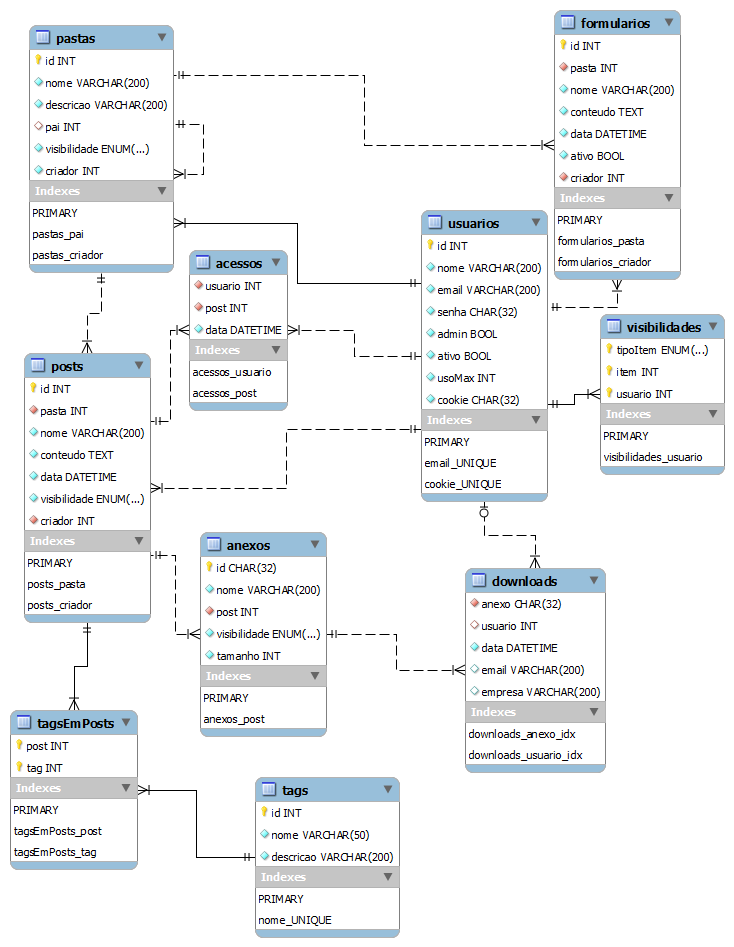
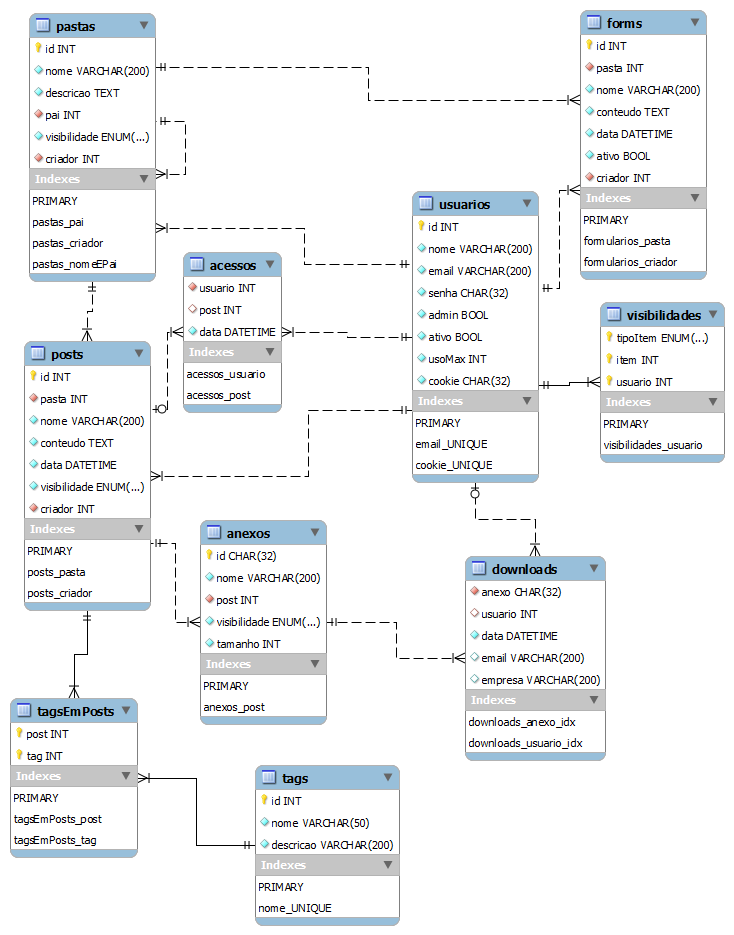
Permite alterar a senha e nome do usuário

diff --git a/js/editarPasta.js b/js/editarPasta.js
@@ -13,3 +13,8 @@ window.addEventListener("load", function () {
 	get("seleto").onchange = atualizarLista
 	atualizarLista()
 })
+
+// Volta para a pasta
+setBotao("voltar", function () {
+	window.location = "/pasta"+caminho
+})

diff --git a/layout.js b/layout.js
@@ -16,3 +16,7 @@ setBotao("layout-logout", function () {
 setBotao("layout-buscar", function () {
 	window.location.href = "/busca"
 })
+
+setBotao("layout-editarUsuario", function () {
+	window.location = "/editarUsuario"
+})

diff --git a/css/index.css b/css/index.css
@@ -1,5 +1,4 @@
 /* Página inicial */
-
 .conteudoEsquerdo {
 	width:50%;
 	float:left;
@@ -12,6 +11,6 @@
 	padding:5px;
 }
 
-.menu {
+.menuPrincipal {
 	display:none;
 }

diff --git a/layouts/editarUsuario.php b/layouts/editarUsuario.php
@@ -1,0 +1,37 @@
+<h2>Editar usuário</h2>
+<?php
+if (!$_usuario) {
+	imprimir('Erro: usuário não encontrado', 'p strong');
+	return;
+}
+$nome = assegurarHTML($_usuario['nome']);
+$email = assegurarHTML($_usuario['email']);
+?>
+
+<script>
+setBotao("enviar", function () {
+	get("submit").click()
+})
+</script>
+
+<form method="post" action="/editarUsuario.php">
+<div class="rotuloEsquerdo">
+	Senha antiga:<br>
+	<br>
+	Nome:<br>
+	Email:<br>
+	Nova senha:<br>
+	Repetir nova senha:
+</div>
+<div class="opcoesDireita">
+	<input name="senha" id="senha" type="password" required autofocus><br>
+	<br>
+	<input name="nome" id="nome" type="text" value="<?=$nome?>" size="30"><br>
+	<input name="email" id="email" type="email" value="<?=$email?>" size="30"><br>
+	<input name="novaSenha" id="novaSenha" type="password"><br>
+	<input name="novaSenha2" id="novaSenha2" type="password">
+</div>
+<div class="clear"></div>
+<input type="submit" style="display:none" id="submit">
+<span class="botao" id="enviar"><img src="/imgs/enviar.png"> Alterar</span>
+</form>

diff --git a/layout.php b/layout.php
@@ -10,12 +10,18 @@
 <meta charset="utf-8">
 <title>Central de conhecimento - FEJESP</title>
 <link rel="stylesheet" href="/layout.css">
-<link rel="stylesheet" href="/css/<?=$_GET['p'];?>.css">
+<?php
+if (file_exists("css/$_GET[p].css"))
+	echo "<link rel='stylesheet' href='/css/$_GET[p].css'>";
+?>
 <link rel="shortcut icon" href="/imgs/logoCC.png">
 <script src="/ajax.js"></script>
 <script src="/utils.js"></script>
 <script src="/layout.js"></script>
-<script src="/js/<?=$_GET['p'];?>.js"></script>
+<?php
+if (file_exists("js/$_GET[p].js"))
+	echo "<script src='/js/$_GET[p].js'></script>";
+?>
 </head>
 
 <body>
@@ -31,6 +37,7 @@
 	<?php
 	if ($_usuario) {
 		echo 'Olá ' . $_usuario['nome'] . ', <span class="botao" id="layout-logout"><img src="/imgs/logout.png"> Logout</span>';
+		echo '<span class="botao" id="layout-editarUsuario"><img src="/imgs/editarUsuario.png"> Alterar conta</span>';
 	} else {
 		echo 'Olá anônimo, <span class="botao" id="layout-login"><img src="/imgs/login.png"> Login</span>';
 	}

diff --git a/editarUsuario.php b/editarUsuario.php
@@ -1,0 +1,35 @@
+<?php
+// Carrega as configurações e conecta ao banco de dados
+require_once 'config.php';
+require_once 'utils.php';
+require_once 'Query.php';
+conectar();
+validarLogin();
+
+if (!$_usuario)
+	die('Erro: usuário não encontrado');
+
+// Recebe os dados
+$nome = @$_POST['nome'];
+$email = @$_POST['email'];
+$novaSenha = @$_POST['novaSenha'];
+$novaSenha2 = @$_POST['novaSenha2'];
+$senha = @$_POST['senha'];
+
+// Valida os dados
+if (md5($senha) != $_usuario['senha'])
+	die('Erro: senha incorreta');
+if ($novaSenha && $novaSenha != $novaSenha2)
+	die('Erro: a mesma senha deve ser digitada duas vezes');
+
+// Salva os novos dados
+$dados = array();
+if ($nome != $_usuario['nome'])
+	$dados['nome'] = $nome;
+if ($email != $_usuario['email'])
+	$dados['email'] = $email;
+if ($novaSenha)
+	$dados['senha'] = md5($novaSenha);
+if (count($dados))
+	new Query('UPDATE usuarios SET ? WHERE id=? LIMIT 1', $dados, $_usuario['id']);
+redirecionar('');

diff --git a/layouts/editarPasta.php b/layouts/editarPasta.php
@@ -11,6 +11,7 @@ if (!$sucesso || (!$criar && !$dados['id'])) {
 }
 
 imprimir($criar ? 'Criar pasta' : 'Editar pasta ' . $dados['nome'], 'h2');
+gerarJSVar('caminho', $caminho);
 	
 // Valida as permissões do usuário
 if (!$_usuario || (!$criar && !$_usuario['admin'] && $dados['criador'] != $_usuario['id'])) {
@@ -64,5 +65,6 @@ $radio3 = $dados['visibilidade']=='seleto' ? ' checked' : '';
 <div class="clear"></div>
 <input type="hidden" name="caminho" value="<?=assegurarHTML($caminho)?>">
 <input type="submit" style="display:none" id="submit">
+<span class="botao" id="voltar"><img src="/imgs/voltar.png"> Voltar</span>
 <span class="botao" id="salvar"><img src="/imgs/enviar.png"> <?=$criar ? 'Criar' : 'Salvar'?></span>
 </form>

diff --git a/layouts/pasta.php b/layouts/pasta.php
@@ -37,9 +37,9 @@ if (!$sucesso)
 if ($_usuario && $sucesso) {
 ?>
 <div class="acoes">
-	<span class="botao" id="criarPasta"><img src="/imgs/criar_pasta.png"> Criar pasta</span>
-	<span class="botao" id="criarPost"><img src="/imgs/criar_post.png"> Criar postagem</span>
-	<span class="botao" id="criarForm"><img src="/imgs/criar_form.png"> Criar formulário</span>
+	<span class="botao" id="criarPasta"><img src="/imgs/criarPasta.png"> Criar pasta</span>
+	<span class="botao" id="criarPost"><img src="/imgs/criarPost.png"> Criar postagem</span>
+	<span class="botao" id="criarForm"><img src="/imgs/criarForm.png"> Criar formulário</span>
 </div>
 <?php
 }

diff --git a/layouts/admin.php b/layouts/admin.php
@@ -1,7 +1,7 @@
 <h2>Administração</h2>
 
 <h3>Usuários</h3>
-<p><span class="botao"><img src="/imgs/user_add.png"> Criar usuário</span></p>
+<p><span class="botao"><img src="/imgs/criarUsuario.png"> Criar usuário</span></p>
 <table class="usuarios">
 <tbody>
 	<tr><th>Ações</th><th>Nome</th><th>Email</th><th>Acessos</th></tr>

diff --git a/login.php b/login.php
@@ -31,6 +31,9 @@ setcookie('central_id', $id);
 // Salva o cookie no banco de dados
 new Query('UPDATE usuarios SET cookie=? WHERE id=? LIMIT 1', $cookie, $id);
 
+// Guarda a estatística
+new Query('INSERT INTO acessos VALUES (?, NULL, NOW())', $id);
+
 // Redireciona
 if (empty($_POST['continuar']))
 	redirecionar('pasta');

diff --git a/config.php b/config.php
@@ -14,3 +14,6 @@ $_config['mysql_host'] = 'localhost';
 $_config['mysql_username'] = 'root';
 $_config['mysql_password'] = '';
 $_config['mysql_dbname'] = 'central';
+
+// Limite máximo de espaço (em KiB)
+$_config['espacoTotal'] = 2*1024*1024;
